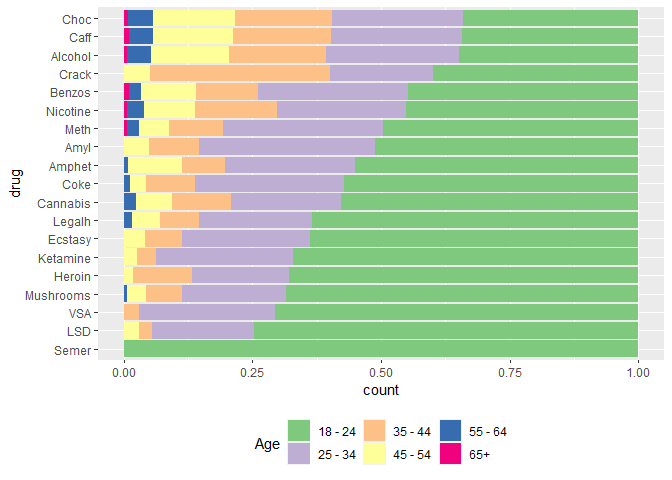
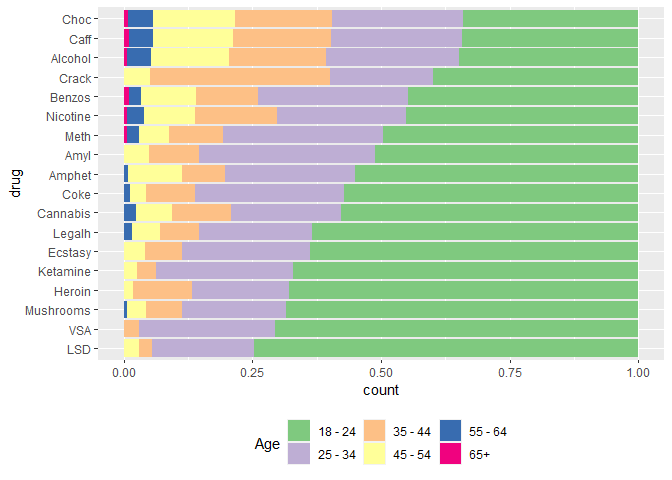
scores

Changed region(s): [[0.1875, 0.0938, 0.9688, 0.75], [0.0312, 0.0625, 0.1562, 0.75], [0.1875, 0.0312, 0.9375, 0.0625]]

diff --git a/README.md b/README.md
@@ -17,6 +17,8 @@ library(corrr)
 
 ``` r
 data = read.csv("drug.csv")
+data <- data %>%
+  select(-c(Semer))
 head(data, n=3)
 ```
 
@@ -32,10 +34,10 @@ head(data, n=3)
     ## 1    CL2  CL0    CL2  CL6      CL0  CL5  CL0   CL0     CL0    CL0      CL0
     ## 2    CL2  CL2    CL0  CL6      CL4  CL6  CL3   CL0     CL4    CL0      CL2
     ## 3    CL0  CL0    CL0  CL6      CL3  CL4  CL0   CL0     CL0    CL0      CL0
-    ##   Legalh LSD Meth Mushrooms Nicotine Semer VSA
-    ## 1    CL0 CL0  CL0       CL0      CL2   CL0 CL0
-    ## 2    CL0 CL2  CL3       CL0      CL4   CL0 CL0
-    ## 3    CL0 CL0  CL0       CL1      CL0   CL0 CL0
+    ##   Legalh LSD Meth Mushrooms Nicotine VSA
+    ## 1    CL0 CL0  CL0       CL0      CL2 CL0
+    ## 2    CL0 CL2  CL3       CL0      CL4 CL0
+    ## 3    CL0 CL0  CL0       CL1      CL0 CL0
 
 > ## give factor levels to education
 
@@ -51,7 +53,7 @@ data$Education = factor(data$Education, levels=c("Doctorate Degree", "Masters De
 
 ``` r
 data = data %>%
-  mutate(across(c(14:32), ~ recode(., 
+  mutate(across(c(14:31), ~ recode(., 
                                 'CL0'= 0,
                                 'CL1'= 1,
                                 'CL2'= 2,
@@ -65,7 +67,7 @@ data = data %>%
 > ## group column names
 
 ``` r
-drug.cols = colnames(data[, 14:32])
+drug.cols = colnames(data[, 14:31])
 score.cols = colnames(data[, 7:13])
 feature.cols = colnames(data[, 1:6])
 ```
@@ -73,15 +75,19 @@ feature.cols = colnames(data[, 1:6])
 > ## create drug types
 
 ``` r
-stimulants <- c("Amphet", "Caff", "Coke", "Crack", "Meth", "Nicotine")
+# stimulants <- c("Amphet", "Caff", "Coke", "Crack", "Meth", "Nicotine")
+# depressants <- c("Alcohol", "Benzos", "Heroin", "Legalh", "Amyl", "VSA")
+# hallucinogens <- c("LSD", "Mushrooms", "Ketamine", "Cannabis", "Ecstasy", "Choc")
+
+stimulants <- c("Amphet", "Coke", "Crack", "Meth", "Nicotine")
 depressants <- c("Alcohol", "Benzos", "Heroin", "Legalh", "Amyl", "VSA")
-hallucinogens <- c("LSD", "Mushrooms", "Ketamine", "Cannabis", "Ecstasy", "Choc")
+hallucinogens <- c("LSD", "Mushrooms", "Ketamine", "Cannabis", "Ecstasy")
 ```
 
 > ## create seperate datasets for features and labels
 
 ``` r
-labels = data[, 14:32]
+labels = data[, 14:31]
 features = data[, 1:13]
 ```
 
@@ -138,8 +144,23 @@ ggplot(temp, aes(y=Age)) +
 df.score = labels %>%
   bind_cols(data[, 7:13])
 
-df.score.pivot = gather(df.score, key="drug", "usage", 1:19)
+df.score.pivot = gather(df.score, key="drug", "usage", drug.cols)
+```
 
+    ## Warning: Using an external vector in selections was deprecated in tidyselect 1.1.0.
+    ## ℹ Please use `all_of()` or `any_of()` instead.
+    ##   # Was:
+    ##   data %>% select(drug.cols)
+    ## 
+    ##   # Now:
+    ##   data %>% select(all_of(drug.cols))
+    ## 
+    ## See <https://tidyselect.r-lib.org/reference/faq-external-vector.html>.
+    ## This warning is displayed once every 8 hours.
+    ## Call `lifecycle::last_lifecycle_warnings()` to see where this warning was
+    ## generated.
+
+``` r
 df.score.pivot %>%
   filter(usage >= 4) %>%
   filter(drug %in% dng.drugs) %>%
@@ -155,7 +176,7 @@ df.score.pivot %>%
 ``` r
 color = brewer.pal(5, "Spectral")
 
-for (i in hallucinogens) {
+for (i in stimulants) {
   p = gather(data, key="score", value="value", score.cols) %>%
     filter(!!sym(i) >=4) %>%
     ggplot(., aes(x=value)) +
@@ -187,7 +208,7 @@ for (i in hallucinogens) {
     ## Call `lifecycle::last_lifecycle_warnings()` to see where this warning was
     ## generated.
 
-![](README_files/figure-gfm/unnamed-chunk-13-1.png)<!-- -->![](README_files/figure-gfm/unnamed-chunk-13-2.png)<!-- -->![](README_files/figure-gfm/unnamed-chunk-13-3.png)<!-- -->![](README_files/figure-gfm/unnamed-chunk-13-4.png)<!-- -->![](README_files/figure-gfm/unnamed-chunk-13-5.png)<!-- -->![](README_files/figure-gfm/unnamed-chunk-13-6.png)<!-- -->
+![](README_files/figure-gfm/unnamed-chunk-13-1.png)<!-- -->![](README_files/figure-gfm/unnamed-chunk-13-2.png)<!-- -->![](README_files/figure-gfm/unnamed-chunk-13-3.png)<!-- -->![](README_files/figure-gfm/unnamed-chunk-13-4.png)<!-- -->![](README_files/figure-gfm/unnamed-chunk-13-5.png)<!-- -->
 
 > ## Analysis on Cannabis
 >
@@ -220,22 +241,7 @@ plt1 = data %>%
   geom_bar(position="fill") +
   scale_fill_brewer(palette="Accent") +
   theme(legend.position="bottom")
-```
 
-    ## Warning: Using an external vector in selections was deprecated in tidyselect 1.1.0.
-    ## ℹ Please use `all_of()` or `any_of()` instead.
-    ##   # Was:
-    ##   data %>% select(drug.cols)
-    ## 
-    ##   # Now:
-    ##   data %>% select(all_of(drug.cols))
-    ## 
-    ## See <https://tidyselect.r-lib.org/reference/faq-external-vector.html>.
-    ## This warning is displayed once every 8 hours.
-    ## Call `lifecycle::last_lifecycle_warnings()` to see where this warning was
-    ## generated.
-
-``` r
 age.popular.drugs = data %>%
   gather(., key="drug", value="usage", drug.cols) %>%
   filter(usage >= 4) %>%
@@ -420,7 +426,6 @@ v1 <- data %>%
   mutate(usage = factor(usage)) %>%
   spread(key="drug", value="usage") %>%
   select(all_of(drug.cols)) %>%
-  select(-all_of("Semer")) %>%
   colpair_map(., cramerV)
 
 v1[, -1][is.na(v1[, -1])] = 1
@@ -433,11 +438,37 @@ corrplot(mat, method = "square", type = "lower", order = 'FPC', tl.col = "black"
 
 ![](README_files/figure-gfm/unnamed-chunk-20-3.png)<!-- -->
 
+> ## density in usgae groups in each drug for each score
+
+<img src="README_files/figure-gfm/unnamed-chunk-21-1.png" style="display: block; margin: auto;" /><img src="README_files/figure-gfm/unnamed-chunk-21-2.png" style="display: block; margin: auto;" /><img src="README_files/figure-gfm/unnamed-chunk-21-3.png" style="display: block; margin: auto;" /><img src="README_files/figure-gfm/unnamed-chunk-21-4.png" style="display: block; margin: auto;" /><img src="README_files/figure-gfm/unnamed-chunk-21-5.png" style="display: block; margin: auto;" /><img src="README_files/figure-gfm/unnamed-chunk-21-6.png" style="display: block; margin: auto;" /><img src="README_files/figure-gfm/unnamed-chunk-21-7.png" style="display: block; margin: auto;" />
+
+> ## boxplot distribution in usage groups in each drug for each score
+
+<img src="README_files/figure-gfm/unnamed-chunk-22-1.png" style="display: block; margin: auto;" /><img src="README_files/figure-gfm/unnamed-chunk-22-2.png" style="display: block; margin: auto;" /><img src="README_files/figure-gfm/unnamed-chunk-22-3.png" style="display: block; margin: auto;" /><img src="README_files/figure-gfm/unnamed-chunk-22-4.png" style="display: block; margin: auto;" /><img src="README_files/figure-gfm/unnamed-chunk-22-5.png" style="display: block; margin: auto;" /><img src="README_files/figure-gfm/unnamed-chunk-22-6.png" style="display: block; margin: auto;" /><img src="README_files/figure-gfm/unnamed-chunk-22-7.png" style="display: block; margin: auto;" />
+
+> ## score changes with usage increase for predifined drug groups
+
+<img src="README_files/figure-gfm/unnamed-chunk-23-1.png" style="display: block; margin: auto;" /><img src="README_files/figure-gfm/unnamed-chunk-23-2.png" style="display: block; margin: auto;" />
+
+> score changes with age
+
+``` r
+for (i in score.cols) {
+  plt <- data %>%
+    ggplot(., aes(y=!!sym(i), x=Age, fill=Age)) +
+    geom_boxplot() +
+    scale_fill_brewer(palette="Dark2")
+  print(plt)
+}
+```
+
+![](README_files/figure-gfm/unnamed-chunk-24-1.png)<!-- -->![](README_files/figure-gfm/unnamed-chunk-24-2.png)<!-- -->![](README_files/figure-gfm/unnamed-chunk-24-3.png)<!-- -->![](README_files/figure-gfm/unnamed-chunk-24-4.png)<!-- -->![](README_files/figure-gfm/unnamed-chunk-24-5.png)<!-- -->![](README_files/figure-gfm/unnamed-chunk-24-6.png)<!-- -->![](README_files/figure-gfm/unnamed-chunk-24-7.png)<!-- -->
+
 ``` r
 display.brewer.all()
 ```
 
-![](README_files/figure-gfm/unnamed-chunk-30-1.png)<!-- -->
+![](README_files/figure-gfm/unnamed-chunk-31-1.png)<!-- -->
 
 ``` r
 brewer.pal.info
